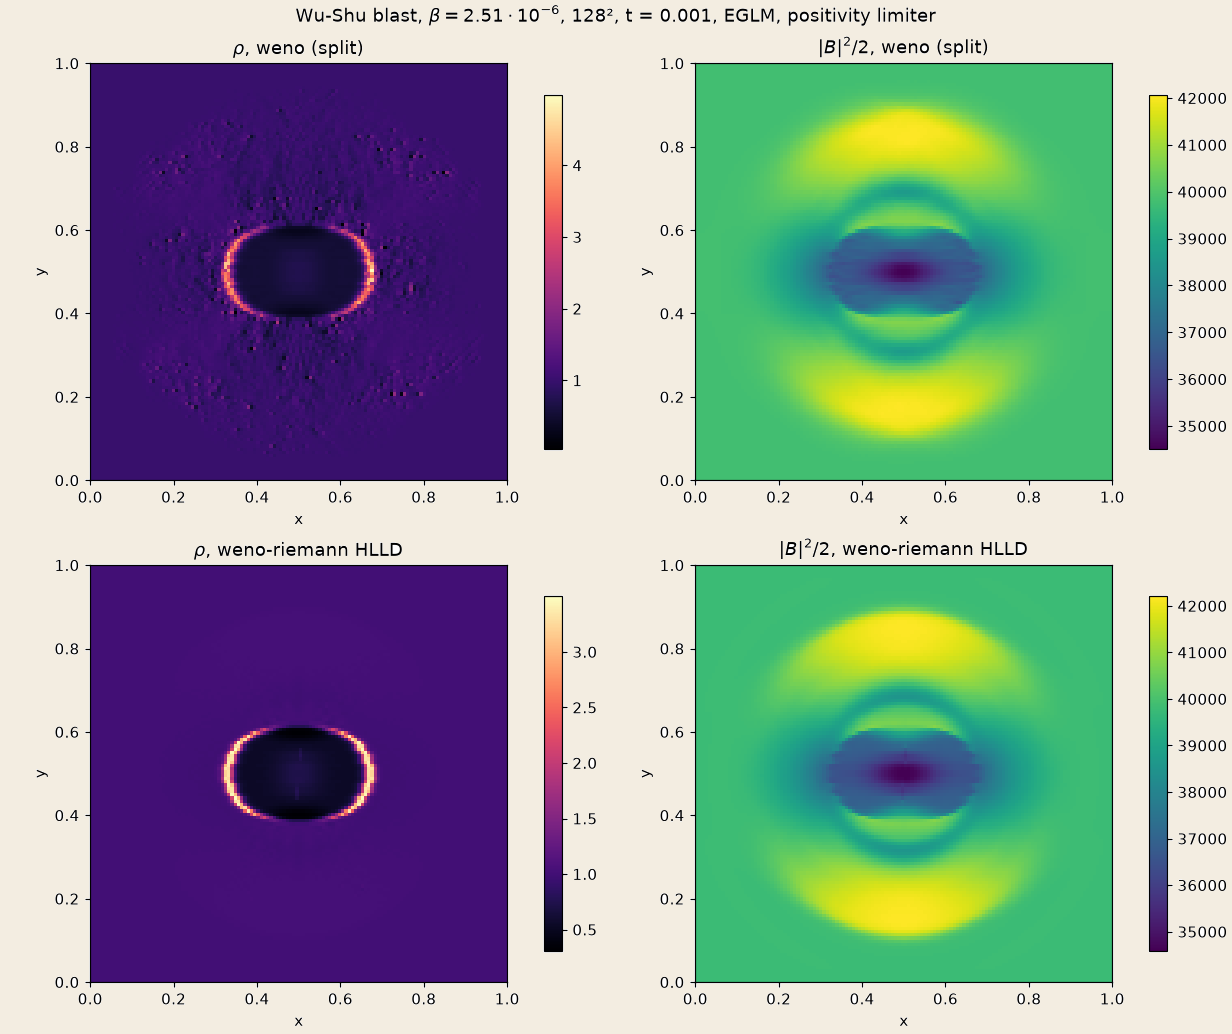
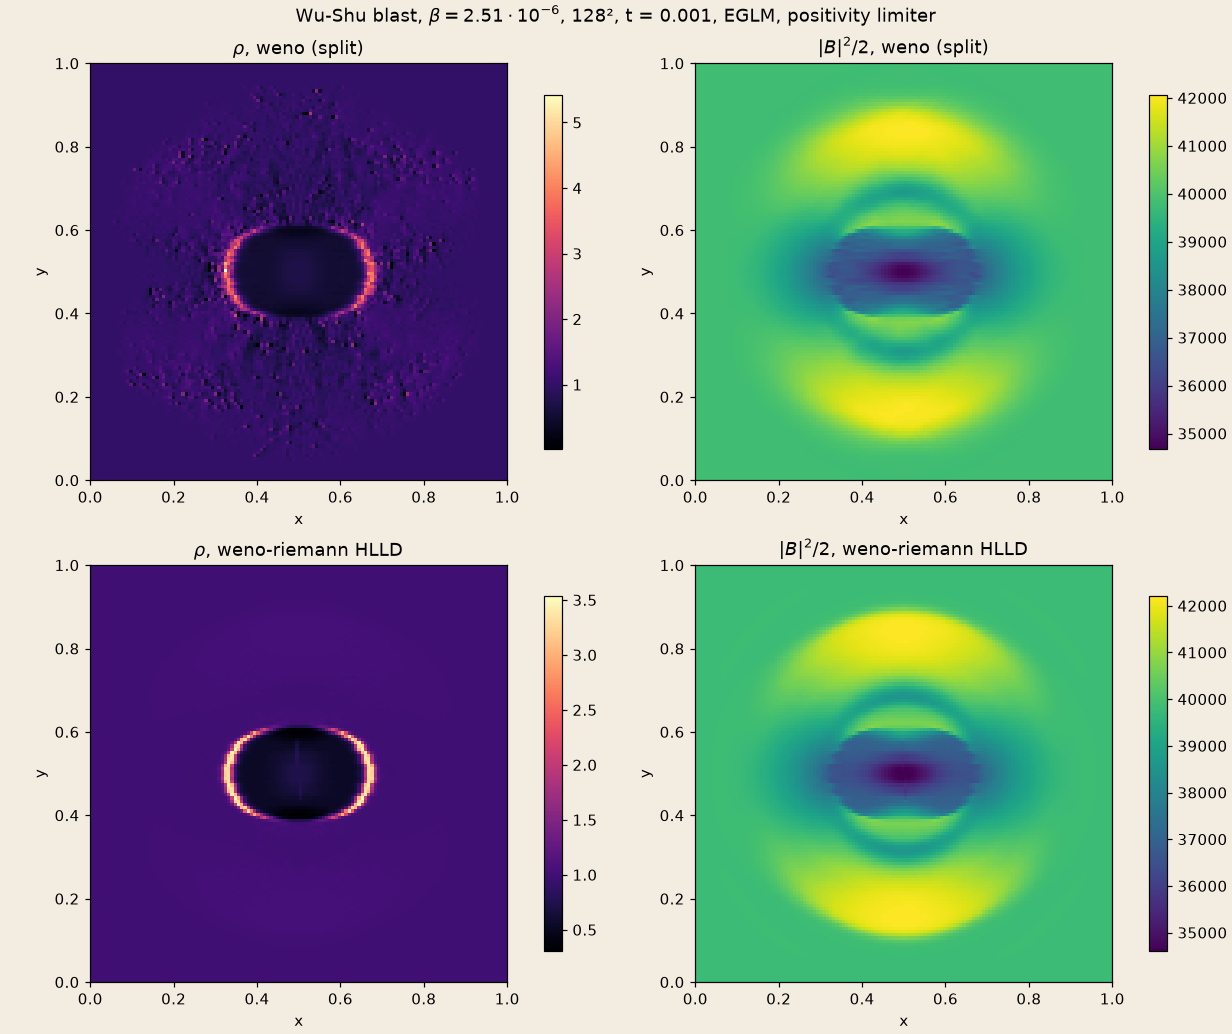
docs(flume): the positivity-limiter legs rerun after the stage step of #134 D4
#134 D4 limits each SSP-54 stage for its own forward-Euler step,
stage_euler_fraction(k) dt, instead of the whole dt: the MHD legs of
the positivity-limiter verification (PV-1, PV-2, PV-5, PV-1 as a
sphere; SSP-54, CFL 0.4) limit less, and their page quoted the counts
and figures of the old step. PV-3 (Euler, SSP-33, f_k = 1) is bitwise
under #134 D4 and was not rerun.

- Every leg passes on both backends: final time reached, no stage
  with an inadmissible backbone, no non-finite flux; PV-4 bitwise
  (limiter on vs off) at steps 345, 691, 176, 353; PV-5 mass drift
  0 and 1.1e-16, seam flux mismatch 5.5e-12 (CPU splitting) and
  3.6e-12.
- The results table: faces limited per stage, CPU (FNL): PV-1 split
  1429 (1432), HLLD 280; PV-2 split 10433 (10569), HLLD 308; PV-1
  sphere (FNL) 48873 and 2976; PV-5 23296 and 8960 (new rows' counts).
- Findings: the splitting scheme takes 930 steps on PV-2 (614 before),
  HLLD 284 (unchanged); the splitting density of PV-2 carries more
  grid-scale noise (maximum 5.4, was 4.9): the less-limited stages let
  more of the high-order update through. HLLD stays the scheme for
  strongly magnetised blasts.
- blast.png and blast-wushu.png redrawn from the rerun
  (make_doc_runs.sh blast on medooza, make_doc_figures.py --only
  blast; light theme, as before).
- check.sh and the page: PV-5 takes about 30 min per scheme on the
  CPU (was 14) and 1.5 on FNL (A30).

Gate (medooza, fresh builds of the night's tree):
[…]

diff --git a/docs/applications/flume/verification/mhd/positivity-limiter.md b/docs/applications/flume/verification/mhd/positivity-limiter.md
@@ -69,10 +69,15 @@ strip region per cell row for the disc). PV-3 setups as Zhang & Shu (2010) and G
 cd src/tests/flume/verification/mhd/positivity
 ./check.sh                       # PV-1, PV-2, PV-3, PV-4 (about 70 min on the CPU, PV-3 takes 55)
 ./check.sh --legs pv1-3d         # the blast as a sphere on 64^3 (about 1 h per scheme on the CPU)
-./check.sh --legs pv5            # the blast across 2:1 AMR seams (about 14 min per scheme on the CPU, 19 on FNL)
+./check.sh --legs pv5            # the blast across 2:1 AMR seams (about 30 min per scheme on the CPU, 1.5 on FNL)
 ```
 
 ## Results
+
+The MHD legs (PV-1, PV-2, PV-4, PV-5) were rerun after [#134](https://github.com/szaghi/adam/issues/134) D4, which
+limits each stage of SSP-54 for its own forward-Euler step instead of the whole $\Delta t$
+([numerics](../../numerics#positivity-limiter)): on medooza, CPU gfortran 16.2 and FNL on A30. PV-3 runs on SSP-33,
+which #134 D4 left bitwise, and was not rerun.
 
 ![Balsara-Spicer blast with the limiter](/flume/blast.png)
 
@@ -90,18 +95,18 @@ HLLC, with the exact solutions of LeBlanc and of the double rarefaction.*
 
 | Problem | Without the limiter | Splitting + limiter | Riemann + limiter |
 |---|---|---|---|
-| PV-1, Balsara–Spicer blast, $\beta = 2.5\cdot10^{-4}$, $128^2$, EGLM | splitting fails at step 3; HLLD runs | passes, up to 1540 faces limited per stage | passes, up to 280 |
-| PV-1 as a sphere, $64^3$ (FNL) | not run | passes, up to 51566 | passes, up to 2976 |
-| PV-2, Wu–Shu blast, $\beta = 2.51\cdot10^{-6}$, $128^2$, EGLM | splitting fails at step 1, HLLD at step 41 | passes, up to 10333 | passes, up to 352 |
+| PV-1, Balsara–Spicer blast, $\beta = 2.5\cdot10^{-4}$, $128^2$, EGLM | splitting fails at step 3; HLLD runs | passes, up to 1429 faces limited per stage | passes, up to 280 |
+| PV-1 as a sphere, $64^3$ (FNL) | not run | passes, up to 48873 | passes, up to 2976 |
+| PV-2, Wu–Shu blast, $\beta = 2.51\cdot10^{-6}$, $128^2$, EGLM | splitting fails at step 1, HLLD at step 41 | passes, up to 10433 | passes, up to 308 |
 | PV-3, LeBlanc shock tube, 400 cells | both run | passes, never limited | passes, up to 512 |
 | PV-3, double rarefaction, 400 cells | splitting runs; HLLC fails at step 79 | passes, never limited | passes, up to 1024 |
 | PV-3, planar Sedov blast, 800 cells | splitting runs; HLLC fails at step 69 | passes, never limited | passes, up to 768 |
 | PV-4, isentropic vortex ($64^2$, $128^2$) and fast wave (16, 32 cells, EGLM) | — | bitwise equal to the run without the limiter | — |
-| PV-5, PV-1 at $64^2$ with $[0.25, 0.75]^2$ refined 2:1 (issue #50) | not run (uniform: splitting fails at step 3) | passes; mass to round-off, seam flux mismatch $3.6\cdot10^{-12}$ | passes; the same |
+| PV-5, PV-1 at $64^2$ with $[0.25, 0.75]^2$ refined 2:1 (issue #50) | not run (uniform: splitting fails at step 3) | passes, up to 23296; mass to round-off, seam flux mismatch $5.5\cdot10^{-12}$ | passes, up to 8960; mass to round-off, $3.6\cdot10^{-12}$ |
 
 The face counts include the copies along the null directions (256 per 1-D face). They are those of the CPU; the device
-ones differ in the splitting blasts (1468 and 10955), whose limited runs are not bitwise reproducible across backends,
-and agree elsewhere. The 3-D blast was run with the relative floor on the device only.
+ones differ in the splitting blasts (1432 and 10569; PV-5 splitting takes 539 steps on FNL, 610 on the CPU), whose
+limited runs are not bitwise reproducible across backends, and agree elsewhere. The 3-D blast was run with the relative floor on the device only.
 
 | Assertion | Bound | CPU | FNL |
 |---|---|---|---|
@@ -109,7 +114,7 @@ and agree elsewhere. The 3-D blast was run with the relative floor on the device
 | PV-3: final $\rho$, $p$ positive | $> 0$ | $\rho \ge 9.9\cdot10^{-4}$, $p \ge 4\cdot10^{-13}$ | pass |
 | PV-4: interior of the last checkpoint, limiter on against off | bitwise | bitwise | bitwise |
 | PV-5: relative mass drift | $10^{-12}$ | round-off | round-off |
-| PV-5: forest $\max\lvert F_\text{coarse} - F_\text{fine}\rvert$ at the end-of-step reflux | $10^{-9}$ | $3.6\cdot10^{-12}$ | the same |
+| PV-5: forest $\max\lvert F_\text{coarse} - F_\text{fine}\rvert$ at the end-of-step reflux | $10^{-9}$ | $5.5\cdot10^{-12}$ | $3.6\cdot10^{-12}$ |
 
 Related cases: [EGLM cleaning](./eglm) shows the blast failing without the limiter; [quadtree AMR](./quadtree-amr) runs
 the limited blast on a quadtree; [the MHD blast symmetry](../runtime-amr/mhd-blast-symmetry) studies the blast under
@@ -134,8 +139,12 @@ runtime AMR; [Sod](../euler/sod) and [Lax](../euler/lax) are the Euler Riemann p
   by $10^6$), and the next stage, whose time step is that of the step's first state, had no admissible backbone. With
   the relative floor ($\kappa = 0.1$) the limiter acts in 15 stages and the run completes; the smooth cases of PV-4
   stay bitwise.
-- The splitting scheme takes 614 steps on PV-2 against 284 for HLLD (779 with the absolute floor alone): its limited
-  states keep low-density cells with large Alfvén speeds, which cost time steps but not admissibility.
+- The splitting scheme takes 930 steps on PV-2 against 284 for HLLD: its limited states keep low-density cells with
+  large Alfvén speeds, which cost time steps but not admissibility. Before #134 D4 it took 614 (779 with the absolute
+  floor alone): limiting each SSP-54 stage for its own, shorter forward-Euler step lets more of the high-order update
+  through, and the splitting density of PV-2 carries more grid-scale noise (maximum 5.4 against 4.9 before); HLLD is
+  unchanged (284 steps). The same holds, milder, on PV-1 (399 steps against 396 for HLLD) and PV-5 (610 against
+  433).
 - PV-4 is bitwise because a face whose two cells keep $\Lambda = 1$ is not touched, and the EGLM sources with
   $\Lambda = 1$ take the unlimited arithmetic.
 - Before issue [#50](https://github.com/szaghi/adam/issues/50) neither scheme reached the end of PV-5. The splitting
